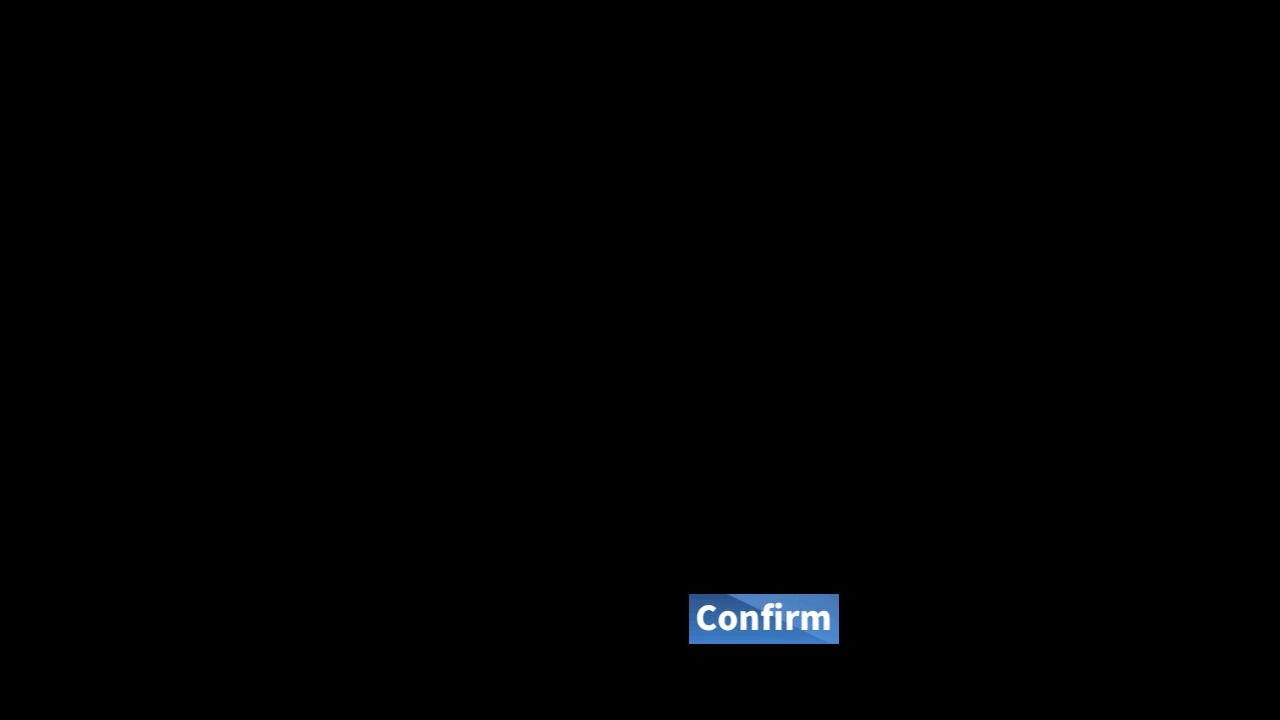
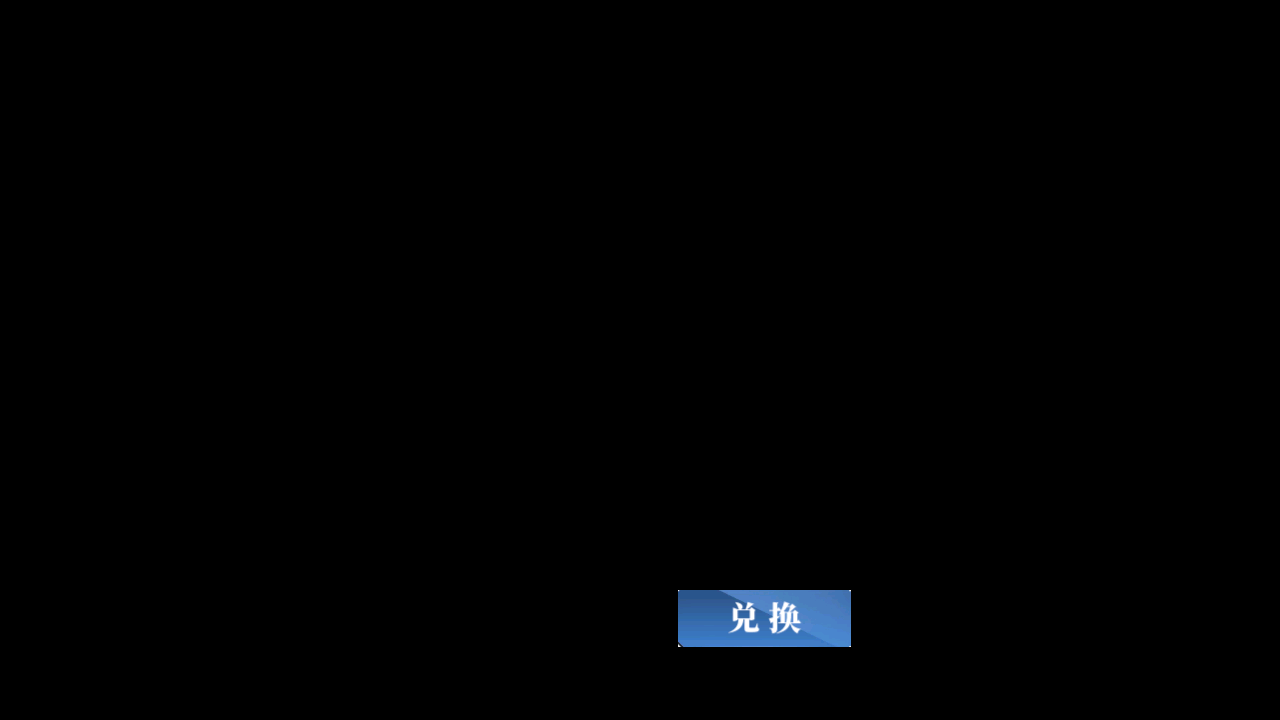
Upd: [CN] SHOP_BUY_CONFIRM_AMOUNT

Changed region(s): [[0.5312, 0.7944, 0.6875, 0.9167]]

diff --git a/module/shop/assets.py b/module/shop/assets.py
@@ -11,7 +11,7 @@ SELECT_MINUS = Button(area={'cn': (562, 201, 588, 227), 'en': (562, 201, 588, 22
 SELECT_PLUS = Button(area={'cn': (674, 201, 700, 227), 'en': (674, 201, 700, 227), 'jp': (674, 201, 700, 227), 'tw': (674, 201, 700, 227)}, color={'cn': (97, 70, 70), 'en': (97, 70, 70), 'jp': (97, 70, 70), 'tw': (97, 70, 70)}, button={'cn': (674, 201, 700, 227), 'en': (674, 201, 700, 227), 'jp': (674, 201, 700, 227), 'tw': (674, 201, 700, 227)}, file={'cn': './assets/cn/shop/SELECT_PLUS.png', 'en': './assets/en/shop/SELECT_PLUS.png', 'jp': './assets/jp/shop/SELECT_PLUS.png', 'tw': './assets/tw/shop/SELECT_PLUS.png'})
 SHOP_AMOUNT = Button(area={'cn': (600, 310, 680, 340), 'en': (600, 310, 680, 340), 'jp': (600, 310, 680, 340), 'tw': (600, 310, 680, 340)}, color={'cn': (48, 52, 62), 'en': (48, 52, 62), 'jp': (48, 52, 62), 'tw': (48, 52, 62)}, button={'cn': (600, 310, 680, 340), 'en': (600, 310, 680, 340), 'jp': (600, 310, 680, 340), 'tw': (600, 310, 680, 340)}, file={'cn': './assets/cn/shop/SHOP_AMOUNT.png', 'en': './assets/en/shop/SHOP_AMOUNT.png', 'jp': './assets/jp/shop/SHOP_AMOUNT.png', 'tw': './assets/tw/shop/SHOP_AMOUNT.png'})
 SHOP_BUY_CONFIRM = Button(area={'cn': (703, 483, 876, 540), 'en': (708, 487, 872, 534), 'jp': (720, 494, 862, 531), 'tw': (706, 485, 875, 537)}, color={'cn': (94, 142, 203), 'en': (115, 157, 210), 'jp': (100, 147, 205), 'tw': (95, 143, 203)}, button={'cn': (703, 483, 876, 540), 'en': (708, 487, 872, 534), 'jp': (720, 494, 862, 531), 'tw': (706, 485, 875, 537)}, file={'cn': './assets/cn/shop/SHOP_BUY_CONFIRM.png', 'en': './assets/en/shop/SHOP_BUY_CONFIRM.png', 'jp': './assets/jp/shop/SHOP_BUY_CONFIRM.png', 'tw': './assets/tw/shop/SHOP_BUY_CONFIRM.png'})
-SHOP_BUY_CONFIRM_AMOUNT = Button(area={'cn': (689, 594, 839, 644), 'en': (689, 594, 839, 644), 'jp': (694, 596, 832, 640), 'tw': (689, 594, 839, 644)}, color={'cn': (103, 146, 197), 'en': (103, 146, 197), 'jp': (84, 132, 191), 'tw': (103, 146, 197)}, button={'cn': (689, 594, 839, 644), 'en': (689, 594, 839, 644), 'jp': (694, 596, 832, 640), 'tw': (689, 594, 839, 644)}, file={'cn': './assets/cn/shop/SHOP_BUY_CONFIRM_AMOUNT.png', 'en': './assets/en/shop/SHOP_BUY_CONFIRM_AMOUNT.png', 'jp': './assets/jp/shop/SHOP_BUY_CONFIRM_AMOUNT.png', 'tw': './assets/tw/shop/SHOP_BUY_CONFIRM_AMOUNT.png'})
+SHOP_BUY_CONFIRM_AMOUNT = Button(area={'cn': (678, 590, 851, 647), 'en': (689, 594, 839, 644), 'jp': (694, 596, 832, 640), 'tw': (689, 594, 839, 644)}, color={'cn': (81, 130, 190), 'en': (103, 146, 197), 'jp': (84, 132, 191), 'tw': (103, 146, 197)}, button={'cn': (678, 590, 851, 647), 'en': (689, 594, 839, 644), 'jp': (694, 596, 832, 640), 'tw': (689, 594, 839, 644)}, file={'cn': './assets/cn/shop/SHOP_BUY_CONFIRM_AMOUNT.png', 'en': './assets/en/shop/SHOP_BUY_CONFIRM_AMOUNT.png', 'jp': './assets/jp/shop/SHOP_BUY_CONFIRM_AMOUNT.png', 'tw': './assets/tw/shop/SHOP_BUY_CONFIRM_AMOUNT.png'})
 SHOP_BUY_CONFIRM_MISTAKE = Button(area={'cn': (590, 300, 612, 318), 'en': (590, 300, 612, 318), 'jp': (590, 300, 612, 318), 'tw': (590, 300, 612, 318)}, color={'cn': (154, 79, 103), 'en': (154, 79, 103), 'jp': (154, 79, 103), 'tw': (154, 79, 103)}, button={'cn': (590, 300, 612, 318), 'en': (590, 300, 612, 318), 'jp': (590, 300, 612, 318), 'tw': (590, 300, 612, 318)}, file={'cn': './assets/cn/shop/SHOP_BUY_CONFIRM_MISTAKE.png', 'en': './assets/en/shop/SHOP_BUY_CONFIRM_MISTAKE.png', 'jp': './assets/jp/shop/SHOP_BUY_CONFIRM_MISTAKE.png', 'tw': './assets/tw/shop/SHOP_BUY_CONFIRM_MISTAKE.png'})
 SHOP_BUY_CONFIRM_SELECT = Button(area={'cn': (554, 626, 726, 683), 'en': (567, 630, 712, 675), 'jp': (588, 638, 689, 669), 'tw': (558, 627, 725, 680)}, color={'cn': (225, 155, 61), 'en': (229, 171, 90), 'jp': (230, 170, 89), 'tw': (225, 155, 60)}, button={'cn': (554, 626, 726, 683), 'en': (567, 630, 712, 675), 'jp': (588, 638, 689, 669), 'tw': (558, 627, 725, 680)}, file={'cn': './assets/cn/shop/SHOP_BUY_CONFIRM_SELECT.png', 'en': './assets/en/shop/SHOP_BUY_CONFIRM_SELECT.png', 'jp': './assets/jp/shop/SHOP_BUY_CONFIRM_SELECT.png', 'tw': './assets/tw/shop/SHOP_BUY_CONFIRM_SELECT.png'})
 SHOP_CLICK_SAFE_AREA = Button(area={'cn': (21, 127, 118, 240), 'en': (21, 127, 118, 240), 'jp': (21, 127, 118, 240), 'tw': (21, 127, 118, 240)}, color={'cn': (16, 18, 25), 'en': (16, 18, 25), 'jp': (16, 18, 25), 'tw': (16, 18, 25)}, button={'cn': (21, 127, 118, 240), 'en': (21, 127, 118, 240), 'jp': (21, 127, 118, 240), 'tw': (21, 127, 118, 240)}, file={'cn': './assets/cn/shop/SHOP_CLICK_SAFE_AREA.png', 'en': './assets/en/shop/SHOP_CLICK_SAFE_AREA.png', 'jp': './assets/jp/shop/SHOP_CLICK_SAFE_AREA.png', 'tw': './assets/tw/shop/SHOP_CLICK_SAFE_AREA.png'})
